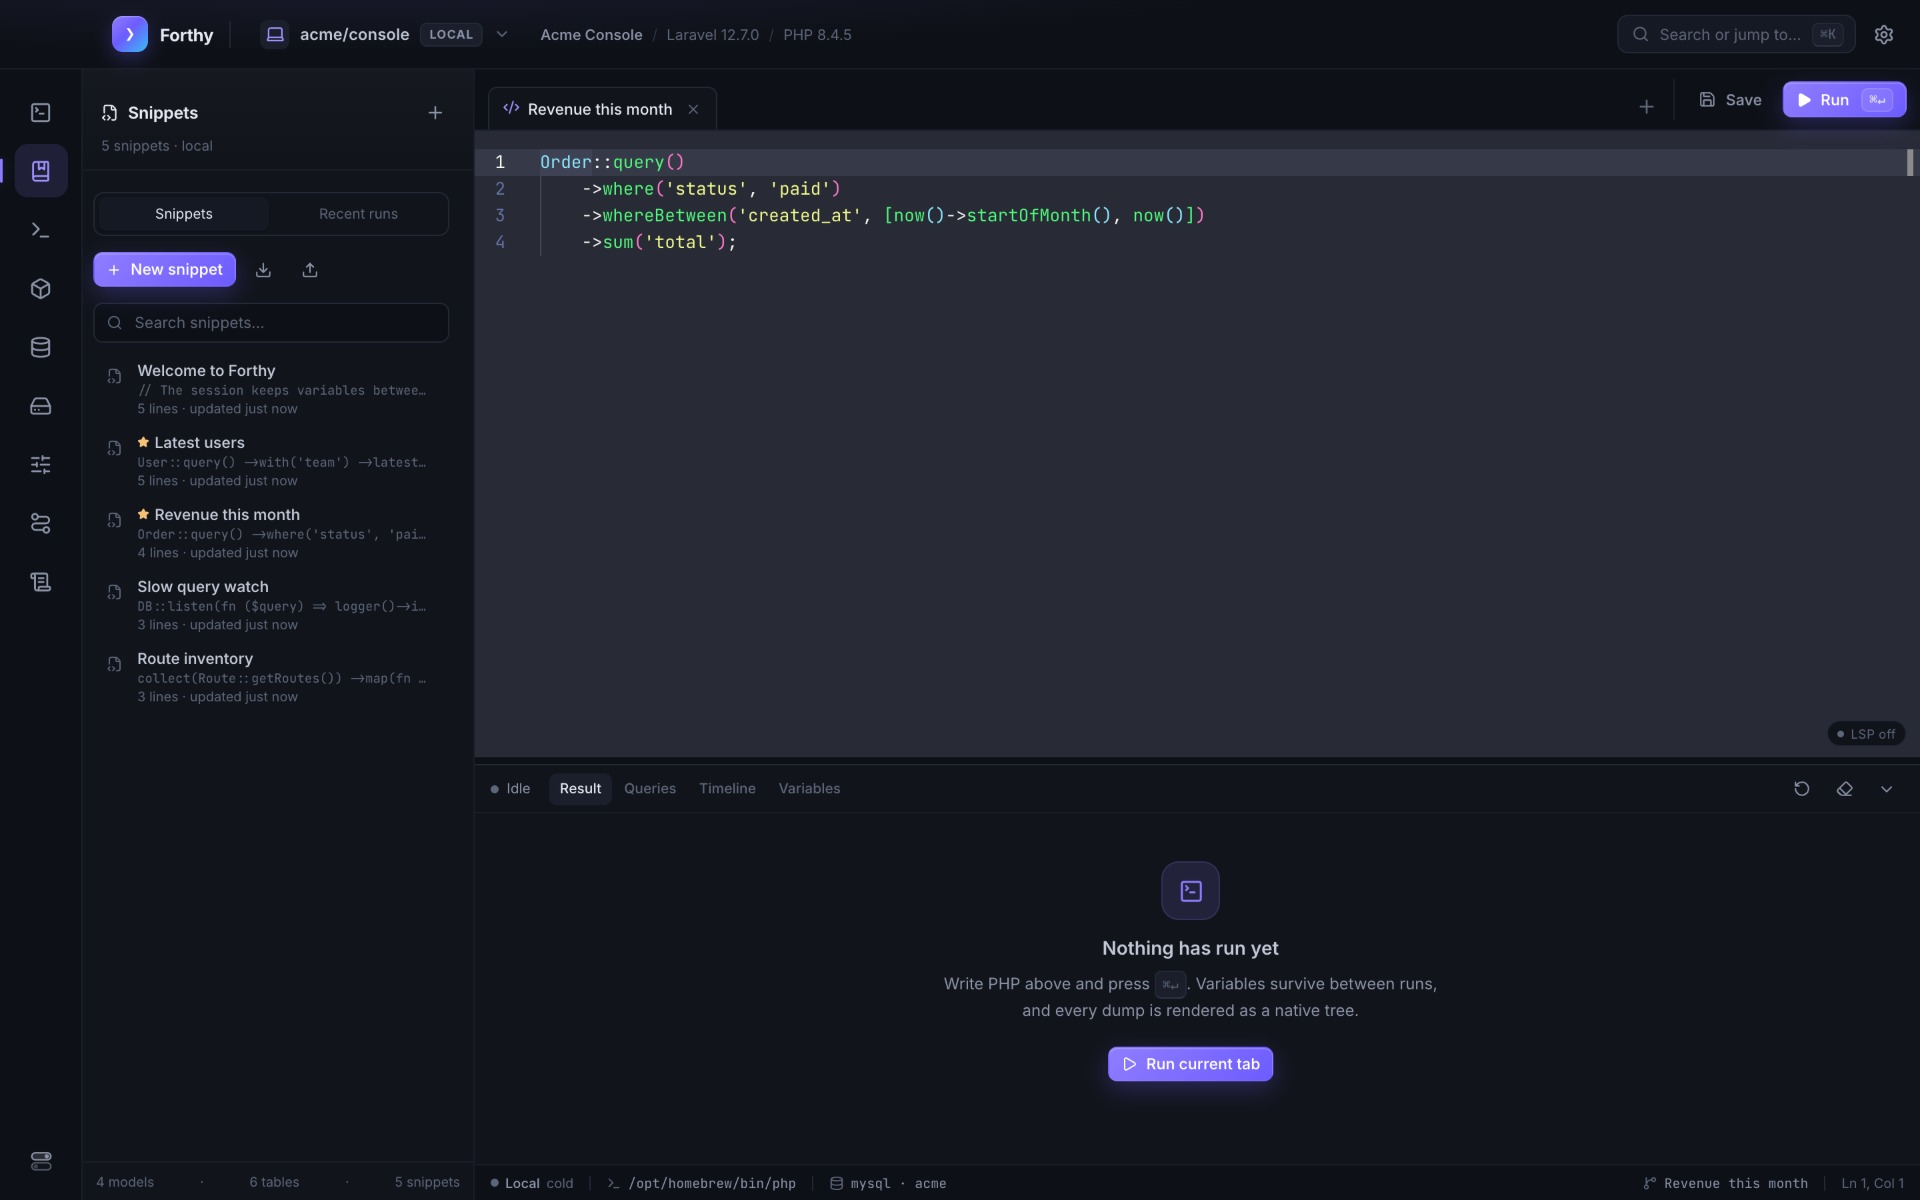
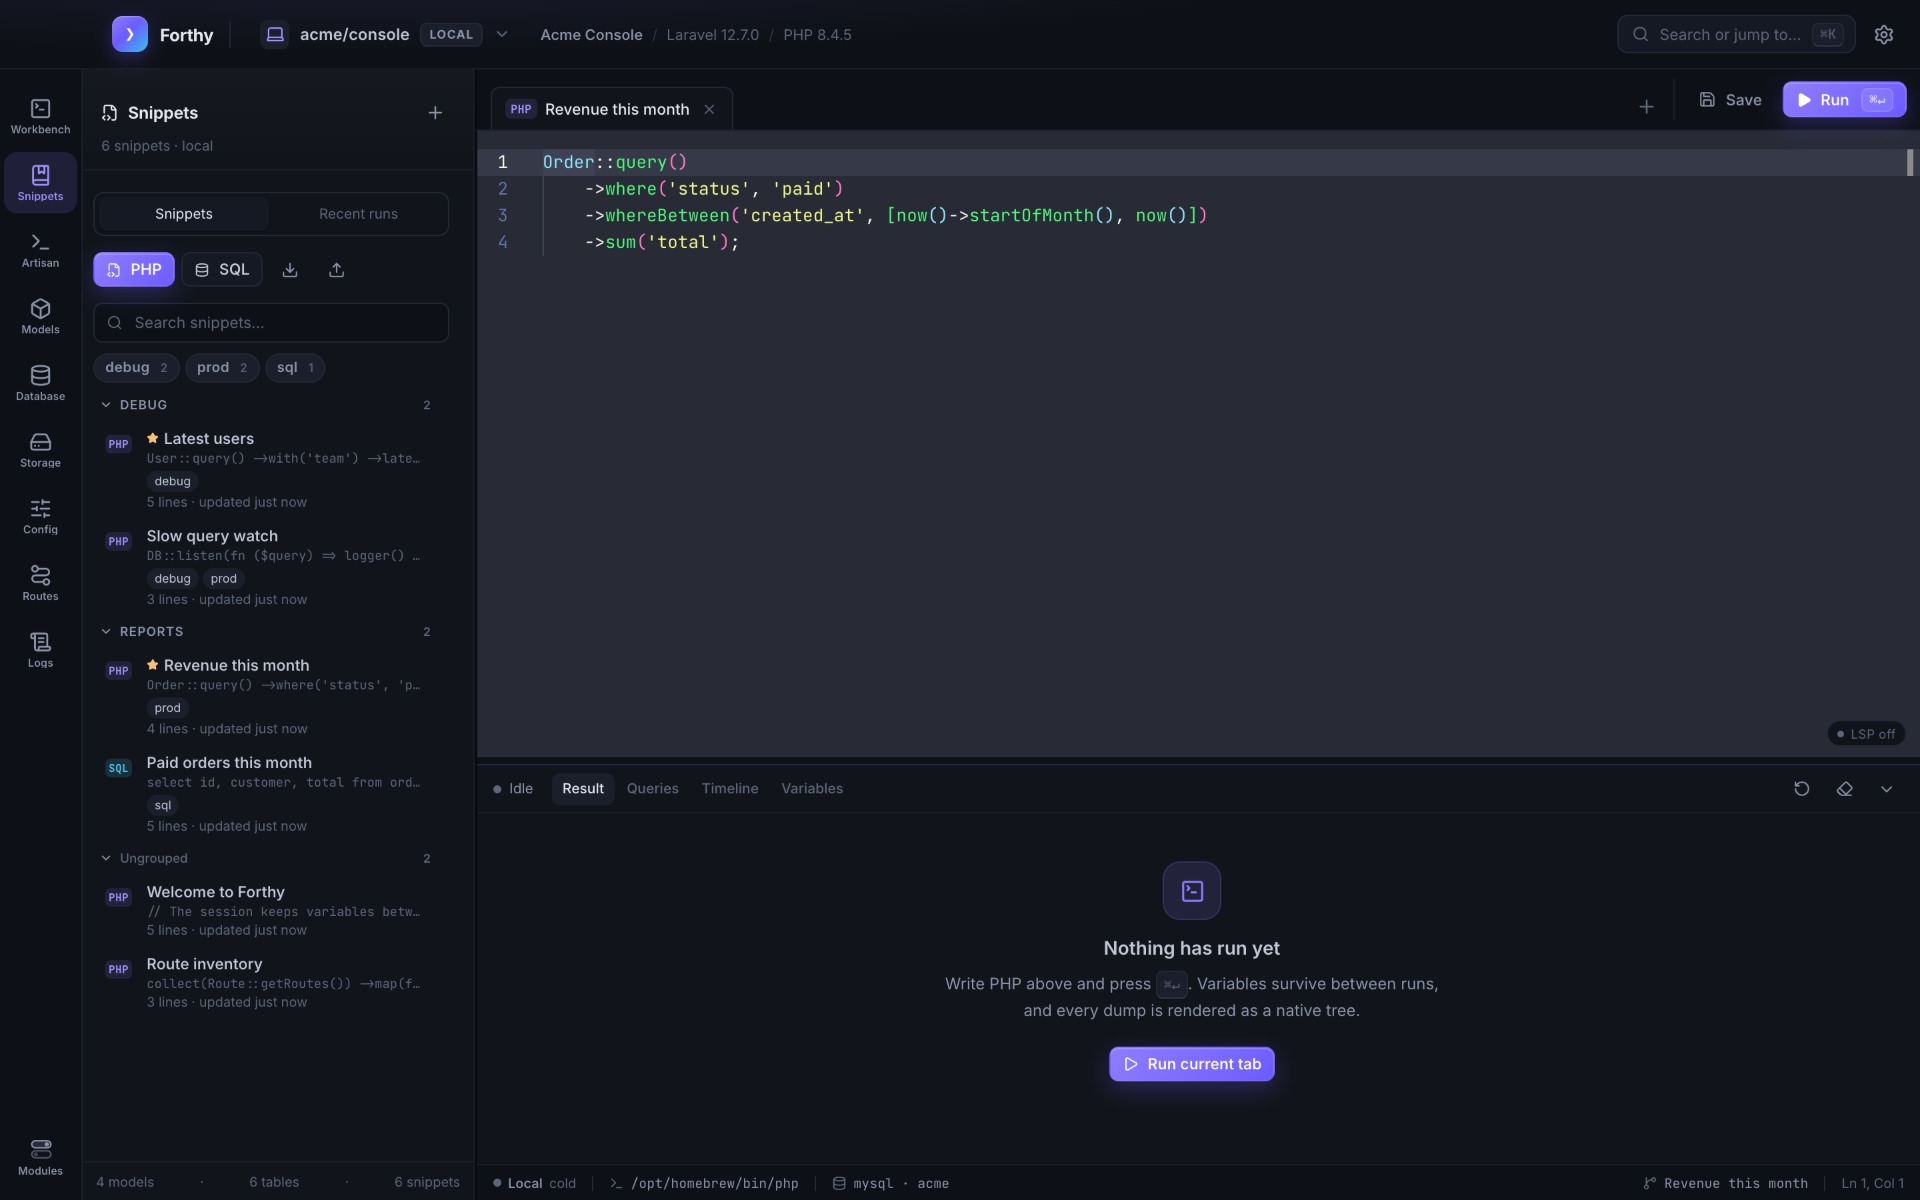
docs: release 0.12.11

diff --git a/site/index.html b/site/index.html
@@ -14,7 +14,7 @@
 
     <link rel="icon" href="favicon.svg" type="image/svg+xml" />
     <link rel="apple-touch-icon" href="apple-touch-icon.png" />
-    <link rel="stylesheet" href="styles.css?v=0.12.10" />
+    <link rel="stylesheet" href="styles.css?v=0.12.11" />
 
     <meta property="og:type" content="website" />
     <meta property="og:site_name" content="Forthy" />
@@ -36,7 +36,7 @@
     />
     <meta name="twitter:image" content="https://stealthpro.github.io/forthy-app/og.jpg" />
 
-    <script src="site.js?v=0.12.10" defer></script>
+    <script src="site.js?v=0.12.11" defer></script>
   </head>
   <body>
     <a class="skip-link" href="#main">Skip to content</a>
@@ -110,7 +110,7 @@
                 href="https://github.com/stealthpro/forthy-app/releases/latest/download/Forthy-macos-aarch64.zip"
               >
                 Download for macOS
-                <span class="button-note">v<span data-version>0.12.10</span> · arm64</span>
+                <span class="button-note">v<span data-version>0.12.11</span> · arm64</span>
               </a>
               <a class="button button-ghost" href="https://github.com/stealthpro/forthy-app">
                 View on GitHub
@@ -494,7 +494,7 @@
               href="https://github.com/stealthpro/forthy-app/releases/latest/download/Forthy-macos-aarch64.zip"
             >
               Download Forthy
-              <span class="button-note">v<span data-version>0.12.10</span> · Apple Silicon</span>
+              <span class="button-note">v<span data-version>0.12.11</span> · Apple Silicon</span>
             </a>
             <p class="fine-print">
               <a href="https://github.com/stealthpro/forthy-app/releases">All releases</a> ·

diff --git a/CHANGELOG.md b/CHANGELOG.md
@@ -1,5 +1,37 @@
 # Changelog
 
+## 0.12.11 — 2026-11-19
+
+Long-running work is never cut off by the app, a running tab cannot be lost, and SQL
+results and snippets get the controls they were missing.
+
+- **Runs finish on their own** — PHP code, SQL queries, exports, **Show more** and Artisan
+  commands no longer carry a built-in deadline: a script can run for hours, like
+  `php artisan tinker`. **Stop** still ends it instantly. Timeouts stay available as
+  optional settings under Settings → Runner; empty (the default) means no limit, and an
+  existing install keeps them empty after the update.
+- **A running tab is protected** — it shows a spinner and cannot be closed; closing the
+  window, quitting or switching connections warns once and stops the work first. SQL tabs
+  got their own **Stop**.
+- **SQL results are complete** — a statement shows its first 500 rows with **Show more**,
+  **Copy** puts every row on the clipboard and **Export** writes every row, so a big
+  result is no longer silently truncated.
+- **Snippets have groups and labels** — organise the library into collapsible folders and
+  tag snippets with up to eight labels; label chips filter the list (picking several
+  requires all of them) and labels used before are offered for reuse.
+- **Tab context menu** — right-click a tab for Close, Close other tabs, Close all tabs,
+  Close unmodified tabs, Close tabs to the left and Close tabs to the right. Escape, a
+  click anywhere else in the app and a click on another tab all close it.
+- **Wider Kubernetes fields** — the context, namespace, pod and container fields use the
+  full dialog width now, so a long pod name is readable in the field and in the list.
+- **Instant start** — the window paints before the project index is built and the project
+  lists fill in a moment later. New defaults: module names under the rail icons on, reopen
+  the last connection off, automatic update checks on.
+- **Environment works with a cached config** — `APP_LOCALE=en` and the other connection
+  variables reach the application even when `bootstrap/cache/config.php` exists, without
+  changing other cached values, and `config:cache`, `config:clear` and `optimize` run from
+  Forthy keep the project's own cache file.
+
 ## 0.12.10 — 2026-11-18
 
 Update checks always offer the newest release, and environment variables get the right
